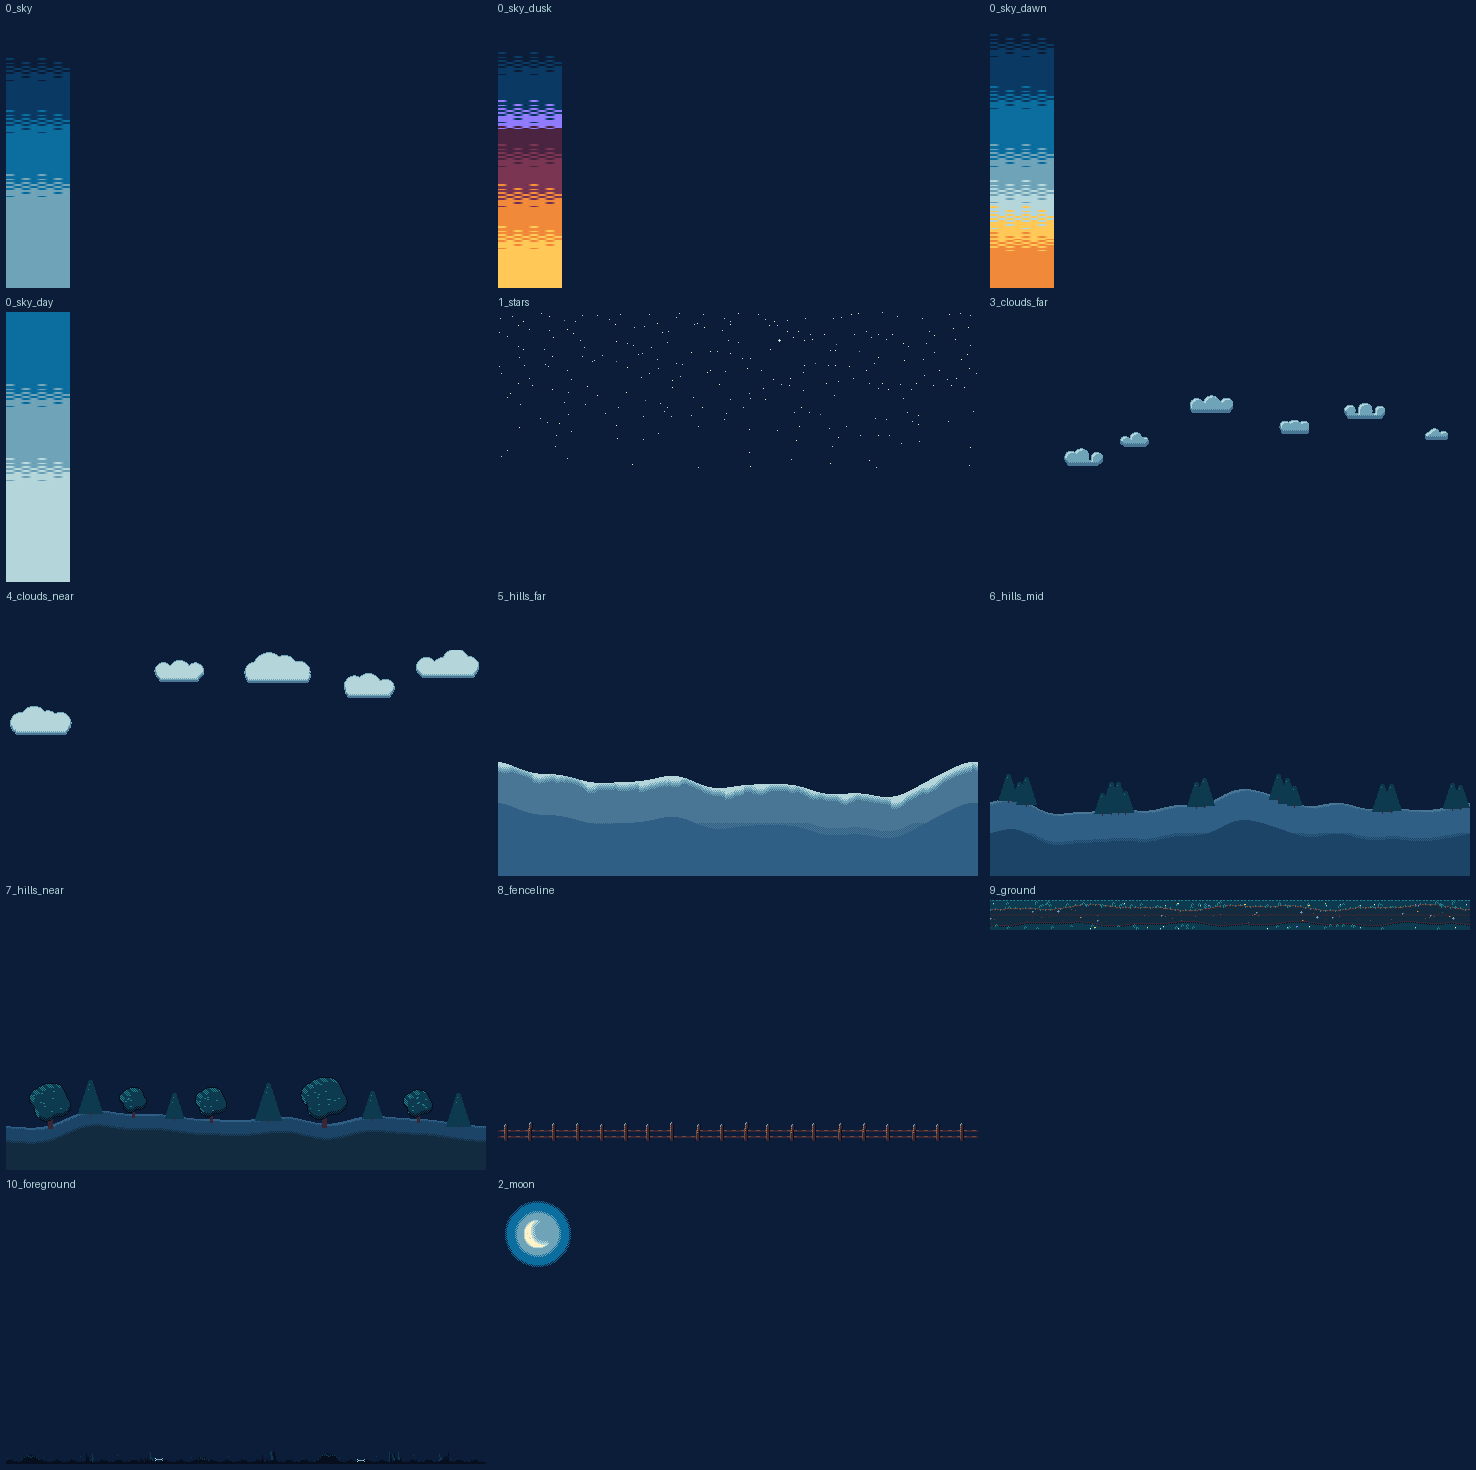
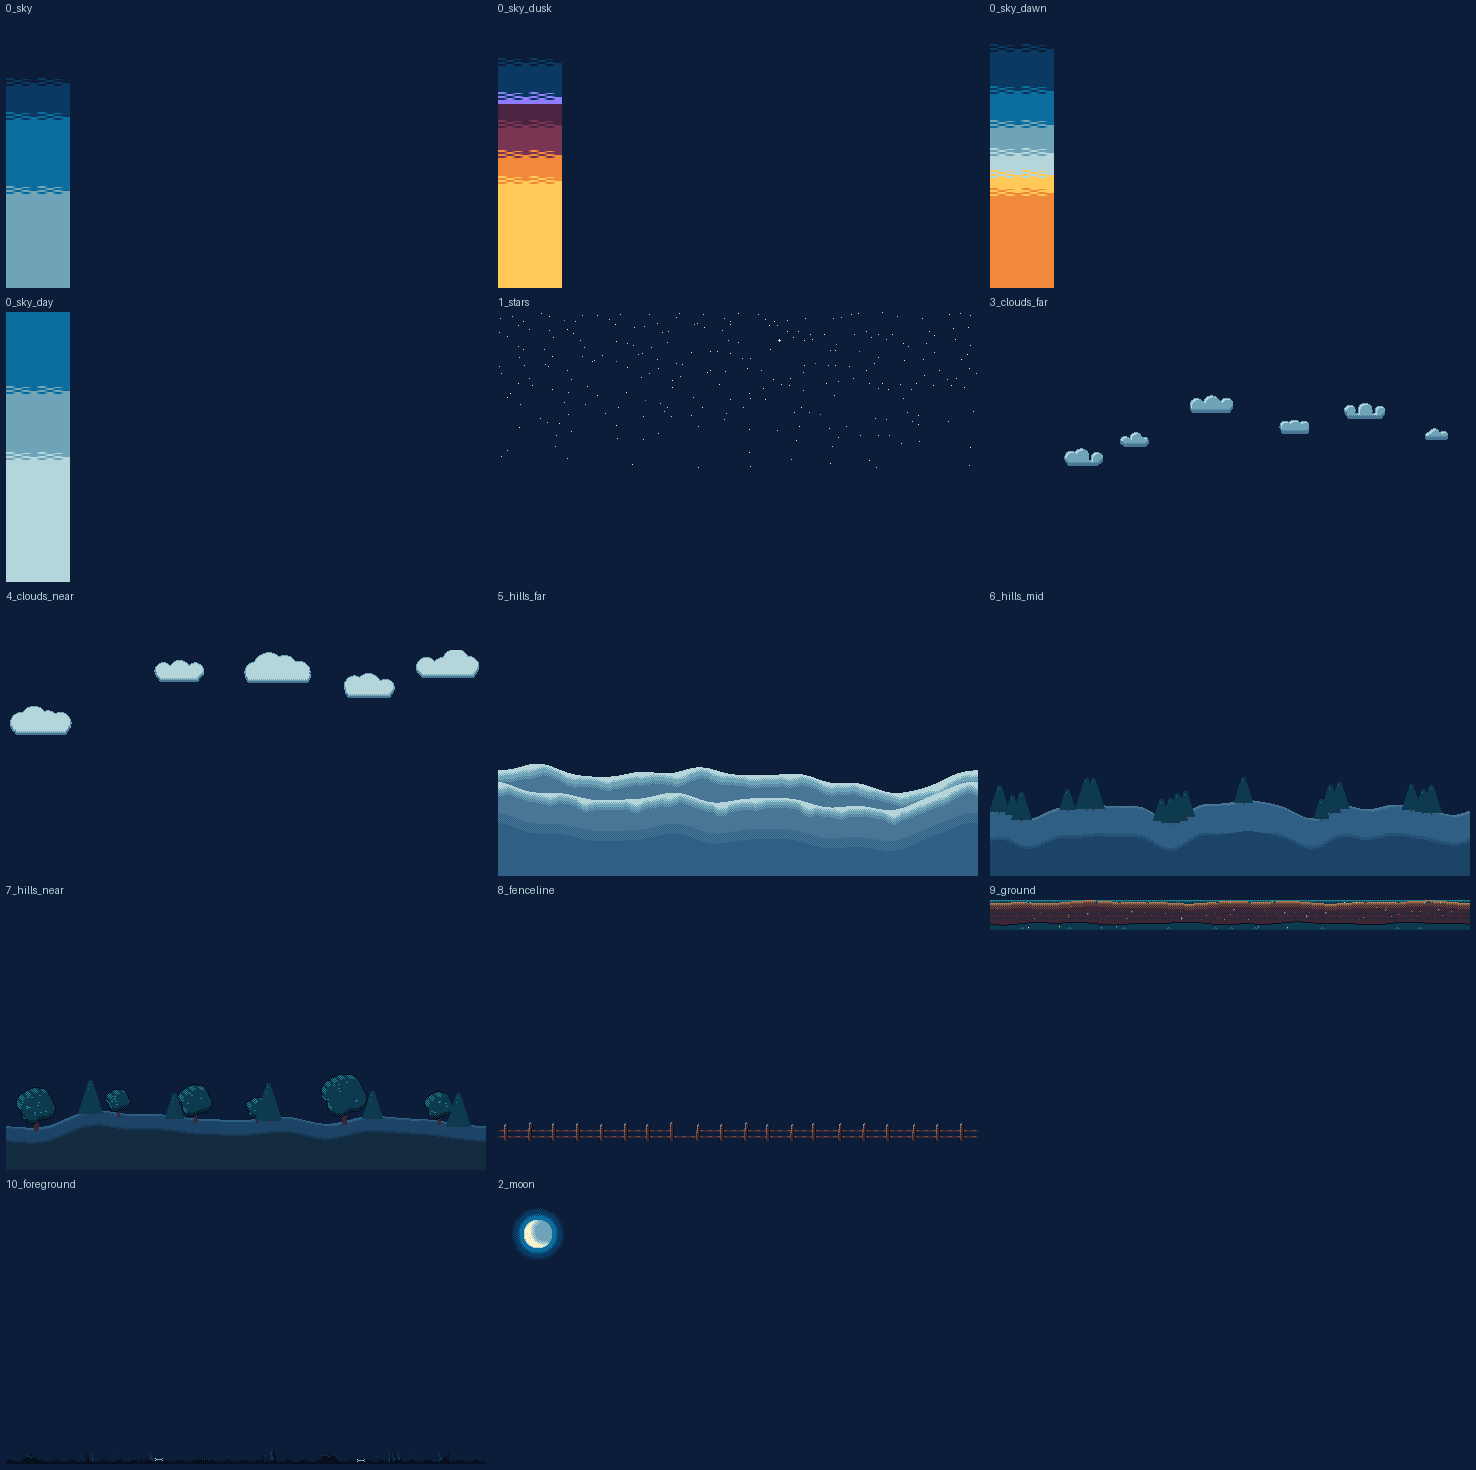
design: backgrounds round 2 (tighter sky dither, two-ridge snowy hills, readable path, subtler moon halo)

diff --git a/assets/pixel/composed/scripts/make_backgrounds.py b/assets/pixel/composed/scripts/make_backgrounds.py
@@ -58,7 +58,7 @@ def sky_strip(bands, w=16, h=H):
     BAY = [[0, 8, 2, 10], [12, 4, 14, 6], [3, 11, 1, 9], [15, 7, 13, 5]]
     for k in range(1, len(bands)):
         b, col = bands[k]
-        L = min(24, b - (bands[k - 1][0] + 2)) if k else 24
+        L = min(10, b - (bands[k - 1][0] + 2)) if k else 24
         for r in range(L, 0, -1):
             y = b - r
             if y < 0: continue
@@ -69,10 +69,10 @@ def sky_strip(bands, w=16, h=H):
     return c
 
 
-SKY_NIGHT = [(0, 'sky-deep'), (64, 'sky-mid'), (116, 'sky-low'), (180, 'cloud-lo')]
-SKY_DUSK = [(0, 'sky-deep'), (58, 'sky-mid'), (106, 'violet'), (112, 'roof-shade'), (150, 'roof-wine'), (190, 'ember'), (232, 'glow')]
-SKY_DAWN = [(0, 'sky-deep'), (40, 'sky-mid'), (92, 'sky-low'), (150, 'cloud-lo'), (186, 'cloud-hi'), (212, 'glow'), (236, 'ember')]
-SKY_DAY = [(0, 'sky-low'), (96, 'cloud-lo'), (170, 'cloud-hi')]
+SKY_NIGHT = [(0, 'sky-deep'), (70, 'sky-mid'), (104, 'sky-low'), (178, 'cloud-lo')]
+SKY_DUSK = [(0, 'sky-deep'), (50, 'sky-mid'), (84, 'violet'), (87, 'roof-shade'), (112, 'roof-wine'), (142, 'ember'), (168, 'glow')]
+SKY_DAWN = [(0, 'sky-deep'), (36, 'sky-mid'), (78, 'sky-low'), (112, 'cloud-lo'), (140, 'cloud-hi'), (162, 'glow'), (180, 'ember')]
+SKY_DAY = [(0, 'sky-low'), (84, 'cloud-lo'), (150, 'cloud-hi')]
 
 
 def fix_violet(c):
@@ -134,8 +134,8 @@ def moon():
     for y in range(S):
         for x in range(S):
             d = math.hypot(x - cx + .5, y - cy + .5)
-            if d <= 33: c.p[y][x] = 'sky-low' if d <= 31 or checker(x, y) else None
-            if d <= 23: c.p[y][x] = 'cloud-lo' if d <= 21 or checker(x, y) else c.p[y][x]
+            if d <= 26: c.p[y][x] = 'sky-mid' if d <= 24 or checker(x, y) else None
+            if d <= 20: c.p[y][x] = 'sky-low' if d <= 18.5 or checker(x, y) else c.p[y][x]
     # dim earthshine on the dark side of the disc
     R = 14.5
     for y in range(S):
@@ -242,26 +242,39 @@ def ridge(base, comps, seed):
 def rr(R, x): return int(round(R[x % W]))
 
 
-def hills_far():
-    R = ridge(176, [(1, 9), (2, 7), (3, 5), (5, 2.5), (8, 1.2)], 5)
-    c = Cv()
+def snow_ridge(c, R, body, lo, hi, seed, thick=1.0, ph=0.0):
     for x in range(W):
         top = rr(R, x); slope = R[(x + 3) % W] - R[(x - 3) % W]
-        lit = slope < -0.6; shadow = slope > 1.2
-        drift = 2.2 * math.sin(TAU * 11 * x / W + 1.3) + 1.6 * math.sin(TAU * 17 * x / W)
-        t_hi = 2 + (3 if lit else 0) - (1 if shadow else 0) + max(0, drift)
+        lit = slope < -0.5; shadow = slope > 1.2
+        drift = 2.4 * math.sin(TAU * 11 * x / W + ph) + 1.8 * math.sin(TAU * 17 * x / W + seed)
+        t_hi = (2.5 + min(5, max(0, -slope * 1.2)) + max(0, drift)) * thick
         for y in range(top, H):
             d = y - top
-            if d < t_hi - 1: col = 'cloud-hi'
-            elif d < t_hi + 1 and checker(x, y): col = 'cloud-hi'
-            elif d < t_hi + 3: col = 'cloud-lo'
-            elif d < t_hi + 5: col = 'cloud-lo' if checker(x, y) else 'hill-far'
-            else:
-                col = 'hill-far'
-                if d > 28 and y > 216: col = 'hill-far' if not checker(x, y) or d < 34 else 'hill-mid'
-                if d > 40: col = 'hill-mid'
+            if d < t_hi - 1: col = hi
+            elif d < t_hi + 1 and checker(x, y): col = hi
+            elif d < t_hi + 4: col = lo
+            elif d < t_hi + 7: col = lo if checker(x, y) else body
+            else: col = body
+            if d > 40 and body == 'hill-far': col = 'hill-mid'
+            elif d > 30 and body == 'hill-far' and checker(x, y): col = 'hill-mid'
             c.p[y][x] = col
-    return c, R
+
+
+def hills_far():
+    R1 = ridge(170, [(1, 7), (2, 6), (3, 4), (6, 2), (9, 1)], 12)    # back ridge, taller peaks
+    R2 = ridge(192, [(1, 6), (2, 6), (3, 4), (5, 2.5), (8, 1.2)], 5)  # front ridge
+    c = Cv()
+    # back ridge: paler, hazier
+    for x in range(W):
+        top = rr(R1, x); slope = R1[(x + 3) % W] - R1[(x - 3) % W]
+        t_hi = 3 + min(5, max(0, -slope * 1.2)) + max(0, 2.0 * math.sin(TAU * 13 * x / W + 2))
+        for y in range(top, H):
+            d = y - top
+            col = 'cloud-hi' if d < t_hi - 1 or (d < t_hi + 1 and checker(x, y)) else 'cloud-lo' if d < t_hi + 5 else 'hill-far'
+            if d >= t_hi + 5 and d < t_hi + 8 and checker(x, y): col = 'cloud-lo'
+            c.p[y][x] = col
+    snow_ridge(c, R2, 'hill-far', 'cloud-lo', 'cloud-hi', 1.7, 1.0, 1.3)
+    return c, R2
 
 
 def pine(c, x, base, h, body, hi=None, sub=None):
@@ -281,7 +294,7 @@ def pine(c, x, base, h, body, hi=None, sub=None):
 
 
 def hills_mid():
-    R = ridge(199, [(1, 5), (2, 6), (4, 3.5), (6, 2), (9, 1)], 21)
+    R = ridge(203, [(3, 5), (4, 3), (7, 3), (10, 1.5), (1, 2)], 21)
     c = Cv()
     for x in range(W):
         top = rr(R, x); slope = R[(x + 3) % W] - R[(x - 3) % W]
@@ -296,7 +309,7 @@ def hills_mid():
             c.p[y][x] = col
     rnd = random.Random(33)
     # pine clusters, irregular rhythm
-    xs = [18, 29, 36, 112, 121, 128, 135, 206, 214, 288, 297, 304, 392, 401, 462, 470]
+    xs = [9, 22, 31, 77, 96, 103, 171, 180, 187, 195, 253, 331, 340, 349, 421, 433, 441]
     for x in xs:
         h = rnd.randrange(18, 32)
         pine(c, x, rr(R, x) + 3, h, 'leaf-dark', None)
@@ -361,7 +374,7 @@ def hills_near():
             if d > 15: col = 'ground'
             c.p[y][x] = col
     rnd = random.Random(55)
-    for x, rad in ((44, 17), (127, 11), (205, 13), (318, 19), (412, 12)):
+    for x, rad in ((30, 16), (112, 10), (189, 14), (251, 9), (338, 19), (433, 12)):
         round_tree(c, x, rr(R, x) + 2, rad, rnd)
     for x, h in ((84, 34), (168, 26), (262, 38), (366, 28), (452, 34)):
         pine(c, x, rr(R, x) + 3, h, 'leaf-dark', 'leaf-lit' if False else None)
@@ -413,66 +426,51 @@ def fence():
 def ground():
     c = Cv(W, 30)
     rnd = random.Random(91)
-    # periodic path edge
-    def edge_top(x): return 7 + 2.0 * math.sin(TAU * 3 * x / W + .5) + 1.3 * math.sin(TAU * 7 * x / W + 2)
-    def edge_bot(x): return 23 + 1.5 * math.sin(TAU * 4 * x / W + 1.1) + 1.0 * math.sin(TAU * 9 * x / W)
+    def et_(x): return 2 + int(round(1.0 * math.sin(TAU * 3 * x / W + .5) + 0.7 * math.sin(TAU * 7 * x / W + 2)))
+    def eb_(x): return 22 + int(round(1.0 * math.sin(TAU * 4 * x / W + 1.1) + 0.6 * math.sin(TAU * 9 * x / W)))
     for x in range(W):
-        et, eb = int(round(edge_top(x))), int(round(edge_bot(x)))
+        et, eb = et_(x), eb_(x)
         for y in range(30):
             if y < et: col = 'leaf-dark'
-            elif y <= eb: col = 'ground'
+            elif y <= eb: col = 'wood-dark'
             else: col = 'leaf-dark'
             c.p[y][x] = col
-        # bright top lip of grass (ground line)
-        c.p[0][x] = 'leaf-lit' if (x * 5 % 7) < 4 else 'leaf-dark'
-        c.p[1][x] = 'leaf-dark' if c.p[0][x] == 'leaf-lit' else c.p[1][x]
-        # path: lit upper edge (wood), dark lower edge
-        c.p[et][x] = 'wood' if (x + et) % 3 else 'wood-dark'
-        if et + 1 < 30: c.p[et + 1][x] = 'wood-dark' if checker(x, et + 1) else 'ground'
+        # grass lip along the ground line
+        c.p[0][x] = 'leaf-lit'
+        c.p[1][x] = 'leaf-lit' if x % 3 == 0 else 'leaf-dark'
+        # path: lit upper edge, shaded lower half, dark bottom edge
+        c.p[et][x] = 'wood-lit'
+        if et + 1 <= eb: c.p[et + 1][x] = 'wood' if checker(x, et) else 'wood-lit'
+        for y in range(et + 2, et + 6):
+            c.p[y][x] = 'wood' if (y == et + 2 or checker(x, y)) else 'wood-dark'
         c.p[eb][x] = 'wood-dark'
-        if eb + 1 < 30: c.p[eb + 1][x] = 'ink' if checker(x, eb) else 'leaf-dark'
-    # dirt speckle (wood/ground tones)
-    for _ in range(90):
-        x = rnd.randrange(W); y = rnd.randrange(9, 23)
-        if c.p[y][x] == 'ground':
-            c.p[y][x] = rnd.choice(('wood-dark', 'wood-dark', 'wood'))
-            if rnd.random() < .3: c.put(x + 1, y, 'wood-dark')
-    # wheel-rut dither
+        for y in range(eb + 1, 30):
+            c.p[y][x] = 'leaf-dark' if y > eb + 1 else 'ink'
+    for _ in range(70):
+        x = rnd.randrange(W); y = rnd.randrange(6, 20)
+        if c.p[y][x] == 'wood-dark':
+            c.p[y][x] = 'wood' if rnd.random() < .7 else 'wood-lit'
+    # wheel ruts
     for x in range(W):
-        for y in (14, 15):
-            if c.p[y][x] == 'ground' and checker(x // 2, y): c.p[y][x] = 'wood-dark'
-    # grass tufts on the lawn above & below path (lit blades)
-    def tuft(x, y, tall=3):
-        for dx, hh in ((-1, tall - 1), (0, tall), (1, tall - 1)):
-            for k in range(hh):
-                c.put(x + dx, y - k, 'leaf-lit' if (k == hh - 1 or dx == -1) else 'leaf-dark')
-    for _ in range(46):
-        x = rnd.randrange(W); y = rnd.randrange(3, 7)
-        tuft(x, y + 1, rnd.choice((2, 3, 3, 4)))
-    for _ in range(26):
-        x = rnd.randrange(W); y = rnd.randrange(26, 30)
-        tuft(x, y, rnd.choice((2, 3)))
-    # grass blades creeping onto the path edge
-    for x in range(0, W, 5):
-        et = int(round(edge_top(x))) + rnd.randrange(0, 2)
-        c.put(x, et, 'leaf-lit'); c.put(x, et - 1, 'leaf-lit')
-    # tiny flowers
-    for i in range(30):
-        x = rnd.randrange(W); y = rnd.choice((3, 4, 5, 26, 27, 28))
-        col = rnd.choice(('moon', 'cloud-hi', 'violet', 'glow', 'cloud-hi'))
-        c.put(x, y, col)
-        if col in ('violet', 'glow') and rnd.random() < .5: c.put(x + 1, y, col)
-        c.put(x, y + 1, 'leaf-lit')
-    # pebbles
-    for _ in range(12):
-        x = rnd.randrange(W); y = rnd.randrange(11, 21)
-        c.put(x, y, 'cloud-lo'); c.put(x + 1, y, 'wall-shade'); c.put(x, y + 1, 'wall-shade'); c.put(x + 1, y + 1, 'ground')
-        if rnd.random() < .4: c.put(x - 1, y, 'wall-mid'); c.put(x, y - 1, 'cloud-lo')
-    pass
-    # fallen leaves, warm accent
-    for _ in range(5):
-        x = rnd.randrange(W); y = rnd.randrange(10, 22)
-        c.put(x, y, 'ember' if rnd.random() < .3 else 'wood-lit'); c.put(x + 1, y, 'wood')
+        for y in (13, 18):
+            if c.p[y][x] == 'wood-dark' and (x // 3) % 4 != 0: c.p[y][x] = 'ground'
+    # sparse grass tufts: top lawn and bottom verge
+    def tuft(x, y, t):
+        for dx, hh in ((-1, t - 1), (0, t), (1, t - 1)):
+            for k in range(hh): c.put(x + dx, y - k, 'leaf-lit' if k == hh - 1 else 'leaf-dark')
+    for x in range(8, W, 31):
+        x += rnd.randrange(-6, 7); tuft(x, 2, 3)
+    for x in range(14, W, 23):
+        x += rnd.randrange(-5, 6); tuft(x, 29, 3) if rnd.random() < .7 else None
+    # flowers (few, readable)
+    for i in range(14):
+        x = rnd.randrange(W); y = rnd.choice((2, 26, 27))
+        col = rnd.choice(('moon', 'cloud-hi', 'violet', 'glow'))
+        c.put(x, y, col); c.put(x, y + 1, 'leaf-lit')
+    # pebbles on the lane
+    for _ in range(9):
+        x = rnd.randrange(W); y = rnd.randrange(8, 19)
+        c.put(x, y, 'cloud-lo'); c.put(x + 1, y, 'wall-shade'); c.put(x, y + 1, 'wall-shade'); c.put(x + 1, y + 1, 'wood-dark')
     return c
 
 

diff --git a/assets/pixel/composed/scripts/backgrounds_preview.py b/assets/pixel/composed/scripts/backgrounds_preview.py
@@ -21,8 +21,8 @@ def compose(out, sky='0_sky', cam=26, vw=427, vh=240, tw=None):
         else: view.alpha_composite(im, (x + ox, y - top))
     strip = L(out, sky)
     for x in range(0, vw, strip.width): view.alpha_composite(strip.crop((0, top, strip.width, 270)), (x, 0))
-    place(L(out, '1_stars'), 0, 0, .02)
-    view.alpha_composite(L(out, '2_moon'), (86 - 40, 56 - 40 - top))
+    if sky != '0_sky_day': place(L(out, '1_stars'), 0, 0, .02)
+    if sky != '0_sky_day': view.alpha_composite(L(out, '2_moon'), (86 - 40, 56 - 40 - top))
     for n, f in (('3_clouds_far', .1), ('4_clouds_near', .2), ('5_hills_far', .3), ('6_hills_mid', .45), ('7_hills_near', .6), ('8_fenceline', .9)):
         place(L(out, n), 0, 0, f)
     place(L(out, '9_ground'), 0, 240, 1.0)
